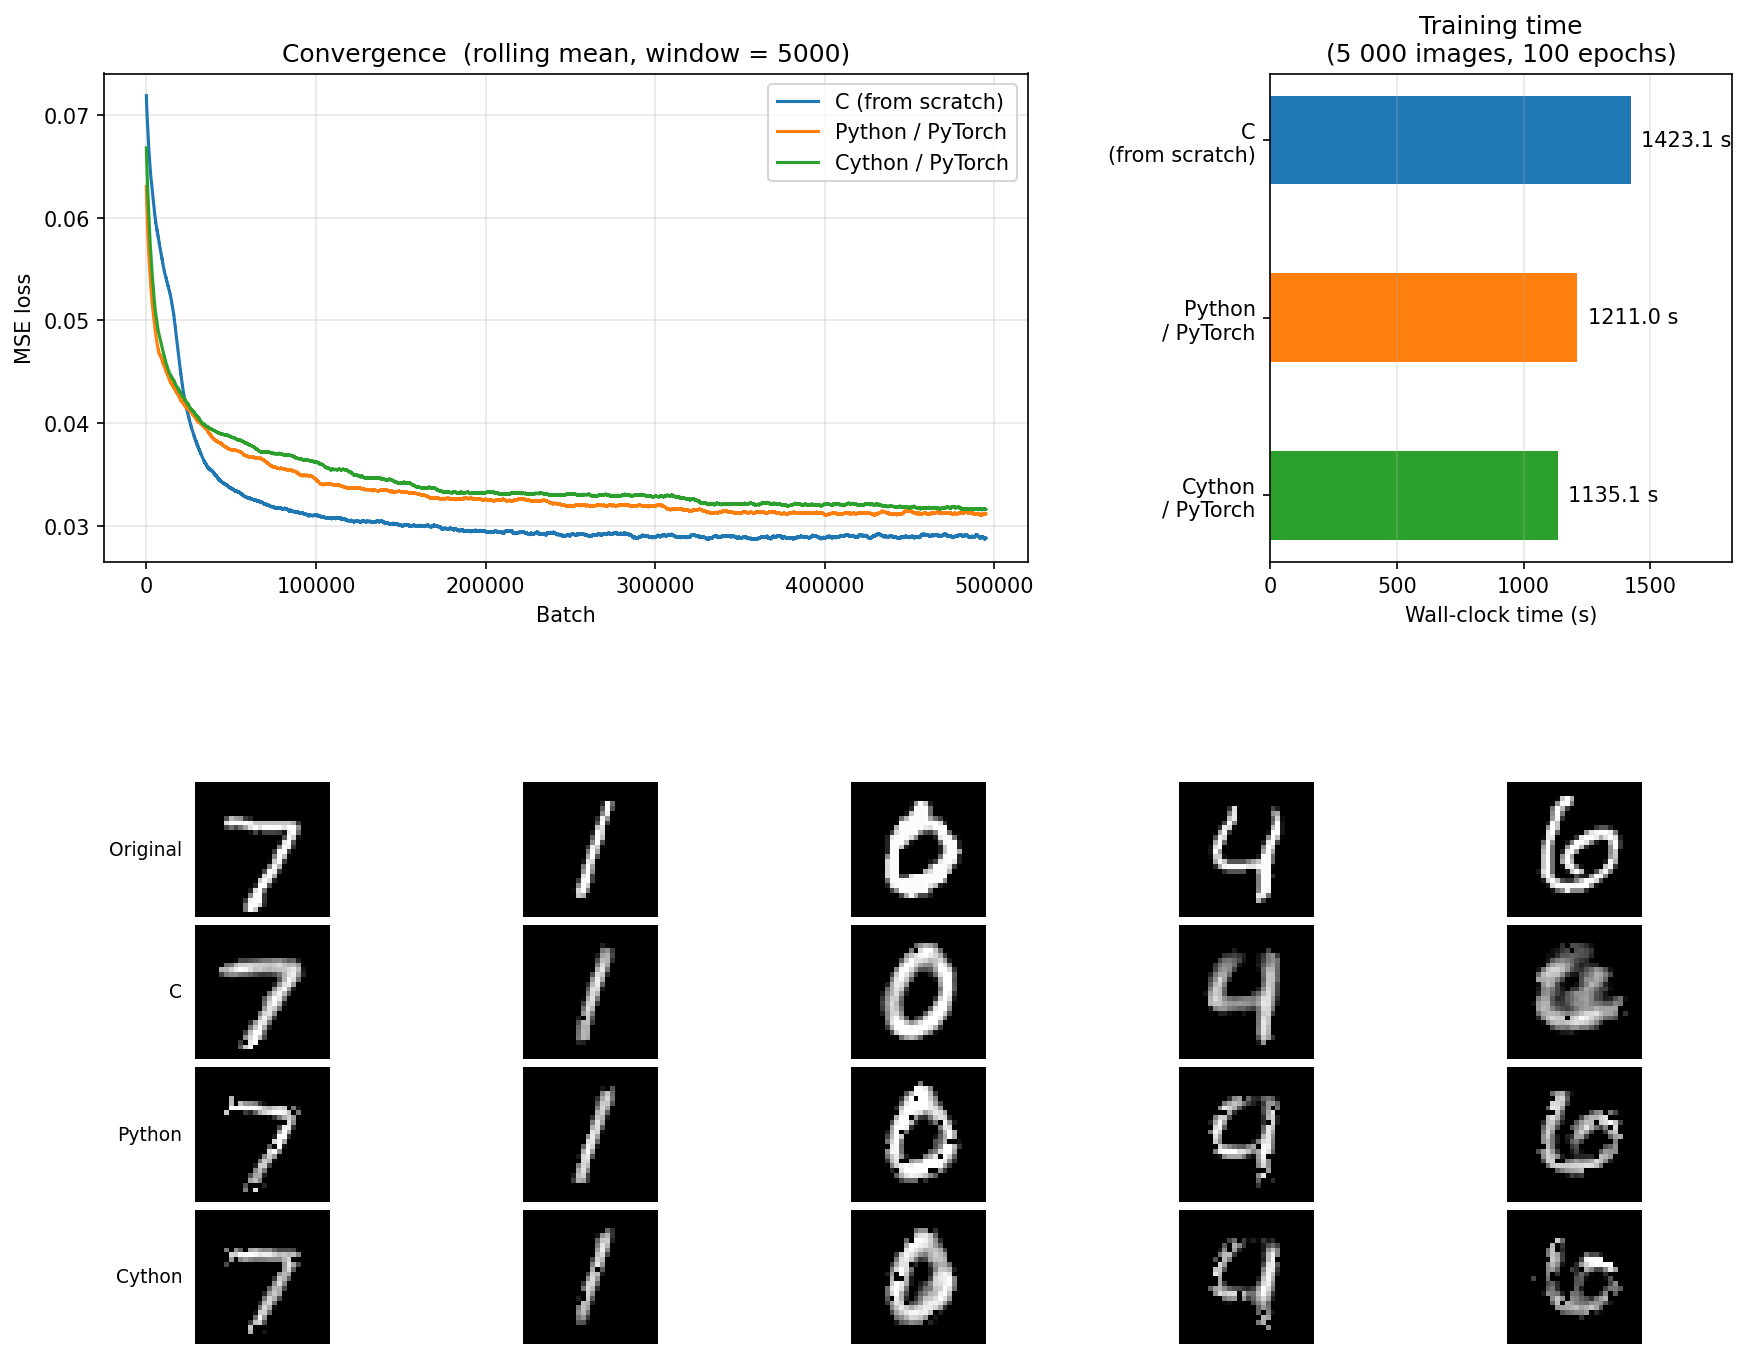
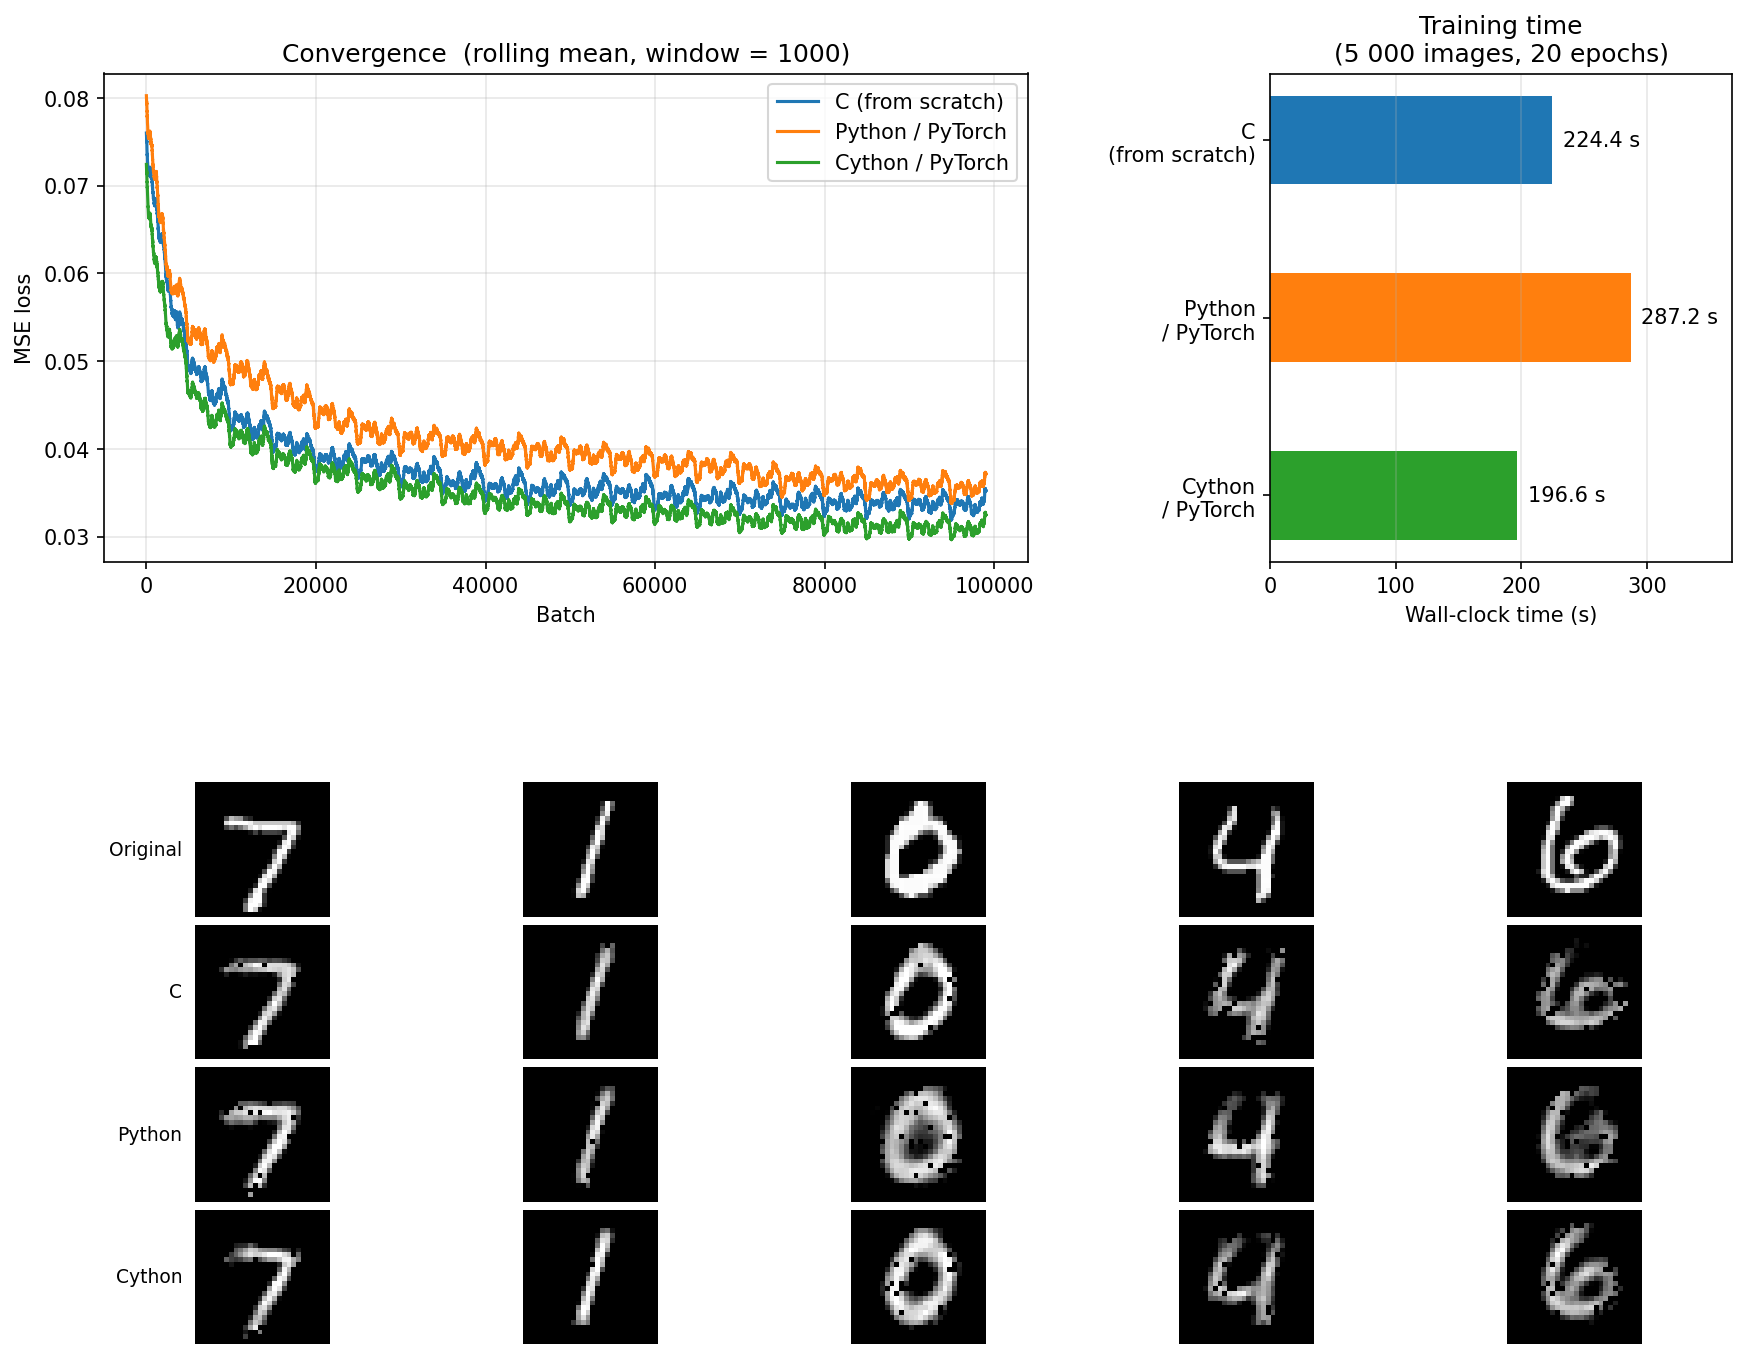
run 20 epochs

diff --git a/C/neural/nn.c b/C/neural/nn.c
@@ -28,8 +28,6 @@ NeuralNetwork* aeCreate(int latentDim, double lr, int batchSize) {
 	net->hiddenEnc2 = AE_HIDDEN2;
 	net->mu         = latentDim;
 
-	r4_nor_setup();  /* Initialise ziggurat RNG once before weight init */
-
 	Matrix* enc1  = matrix_create(AE_HIDDEN1,   AE_INPUT_DIM);
 	Matrix* enc1b = matrix_create(AE_HIDDEN1,   batchSize);
 	Matrix* enc2  = matrix_create(AE_HIDDEN2,   AE_HIDDEN1);
@@ -37,12 +35,13 @@ NeuralNetwork* aeCreate(int latentDim, double lr, int batchSize) {
 	Matrix* fc_mu  = matrix_create(latentDim,   AE_HIDDEN2);
 	Matrix* fc_mub = matrix_create(latentDim,   batchSize);
 
-	matrix_fill(enc1b,  0.0);
-	matrix_fill(enc2b,  0.0);
-	matrix_fill(fc_mub, 0.0);
-	matrix_init(enc1,  AE_INPUT_DIM, 1);
-	matrix_init(enc2,  AE_HIDDEN1,   1);
-	matrix_init(fc_mu, AE_HIDDEN2,   1);
+	/* Kaiming uniform init for weights and biases — matches PyTorch nn.Linear */
+	matrix_init(enc1,   AE_INPUT_DIM);
+	matrix_init(enc1b,  AE_INPUT_DIM);
+	matrix_init(enc2,   AE_HIDDEN1);
+	matrix_init(enc2b,  AE_HIDDEN1);
+	matrix_init(fc_mu,  AE_HIDDEN2);
+	matrix_init(fc_mub, AE_HIDDEN2);
 
 	net->hiddenWeightsEnc  = enc1;
 	net->hiddenWeightsEnc2 = enc2;
@@ -63,12 +62,12 @@ NeuralNetwork* aeCreate(int latentDim, double lr, int batchSize) {
 	Matrix* dec2b  = matrix_create(AE_HIDDEN1,   batchSize);
 	Matrix* out_wb = matrix_create(AE_INPUT_DIM, batchSize);
 
-	matrix_fill(dec1b,  0.0);
-	matrix_fill(dec2b,  0.0);
-	matrix_fill(out_wb, 0.0);
-	matrix_init(dec1,  latentDim,  1);
-	matrix_init(dec2,  AE_HIDDEN2, 1);
-	matrix_init(out_w, AE_HIDDEN1, 1);
+	matrix_init(dec1,   latentDim);
+	matrix_init(dec1b,  latentDim);
+	matrix_init(dec2,   AE_HIDDEN2);
+	matrix_init(dec2b,  AE_HIDDEN2);
+	matrix_init(out_w,  AE_HIDDEN1);
+	matrix_init(out_wb, AE_HIDDEN1);
 
 	net->hiddenWeightsDec  = dec1;
 	net->hiddenWeightsDec2 = dec2;
@@ -154,53 +153,53 @@ double network_train(NeuralNetwork* net, Matrix* X, int batch_size,
 	Matrix* primed = reluPrime(z5);
 	Matrix* dzn    = multiply(dA5, primed, 0);
 	matrix_free(primed);
-	ADAM_UPDATE(vds[0], sds[0], dot(dzn, transpose(A4, 0), 2), net->outputWeights);
+	ADAM_UPDATE(vds[0], sds[0], dot_NT(dzn, A4, 0), net->outputWeights);
 	ADAM_UPDATE(vds[6], sds[6], matrix_copy(dzn), net->outputBias);
 	assert(is_valid_double(net->outputWeights->entries[0][0]));
 
 	/* Decoder layer 2 */
-	Matrix* prev = dot(transpose(net->outputWeights, 0), dzn, 1);
+	Matrix* prev = dot_TN(net->outputWeights, dzn, 0);
 	primed = reluPrime(z4);
 	matrix_free(dzn);
 	dzn = multiply(prev, primed, 0);
 	matrix_free(prev); matrix_free(primed);
-	ADAM_UPDATE(vds[1], sds[1], dot(dzn, transpose(A3, 0), 2), net->hiddenWeightsDec2);
+	ADAM_UPDATE(vds[1], sds[1], dot_NT(dzn, A3, 0), net->hiddenWeightsDec2);
 	ADAM_UPDATE(vds[7], sds[7], matrix_copy(dzn), net->hiddenBiasDec2);
 
 	/* Decoder layer 1 */
-	prev   = dot(transpose(net->hiddenWeightsDec2, 0), dzn, 1);
+	prev   = dot_TN(net->hiddenWeightsDec2, dzn, 0);
 	primed = reluPrime(z3);
 	matrix_free(dzn);
 	dzn = multiply(prev, primed, 0);
 	matrix_free(prev); matrix_free(primed);
-	ADAM_UPDATE(vds[2], sds[2], dot(dzn, transpose(A2, 0), 2), net->hiddenWeightsDec);
+	ADAM_UPDATE(vds[2], sds[2], dot_NT(dzn, A2, 0), net->hiddenWeightsDec);
 	ADAM_UPDATE(vds[8], sds[8], matrix_copy(dzn), net->hiddenBiasDec);
 
 	/* Latent (mu) layer */
-	prev   = dot(transpose(net->hiddenWeightsDec, 0), dzn, 1);
+	prev   = dot_TN(net->hiddenWeightsDec, dzn, 0);
 	primed = reluPrime(z2);
 	matrix_free(dzn);
 	dzn = multiply(prev, primed, 0);
 	matrix_free(prev); matrix_free(primed);
-	ADAM_UPDATE(vds[3], sds[3], dot(dzn, transpose(A1, 0), 2), net->hiddenWeightsMu);
+	ADAM_UPDATE(vds[3], sds[3], dot_NT(dzn, A1, 0), net->hiddenWeightsMu);
 	ADAM_UPDATE(vds[9], sds[9], matrix_copy(dzn), net->hiddenBiasMu);
 
 	/* Encoder layer 2 */
-	prev   = dot(transpose(net->hiddenWeightsMu, 0), dzn, 1);
+	prev   = dot_TN(net->hiddenWeightsMu, dzn, 0);
 	primed = reluPrime(z1);
 	matrix_free(dzn);
 	dzn = multiply(prev, primed, 0);
 	matrix_free(prev); matrix_free(primed);
-	ADAM_UPDATE(vds[4], sds[4], dot(dzn, transpose(A0, 0), 2), net->hiddenWeightsEnc2);
+	ADAM_UPDATE(vds[4], sds[4], dot_NT(dzn, A0, 0), net->hiddenWeightsEnc2);
 	ADAM_UPDATE(vds[10], sds[10], matrix_copy(dzn), net->hiddenBiasEnc2);
 
 	/* Encoder layer 1 */
-	prev   = dot(transpose(net->hiddenWeightsEnc2, 0), dzn, 1);
+	prev   = dot_TN(net->hiddenWeightsEnc2, dzn, 0);
 	primed = reluPrime(z0);
 	matrix_free(dzn);
 	dzn = multiply(prev, primed, 0);
 	matrix_free(prev); matrix_free(primed);
-	ADAM_UPDATE(vds[5], sds[5], dot(dzn, transpose(X, 0), 2), net->hiddenWeightsEnc);
+	ADAM_UPDATE(vds[5], sds[5], dot_NT(dzn, X, 0), net->hiddenWeightsEnc);
 	ADAM_UPDATE(vds[11], sds[11], matrix_copy(dzn), net->hiddenBiasEnc);
 
 	/* ── Free intermediate activations ─────────────────────────────── */

diff --git a/C/matrix/ops.c b/C/matrix/ops.c
@@ -152,6 +152,42 @@ Matrix* dot(Matrix *m1, Matrix *m2, unsigned short int comp) {
 	return m;
 }
 
+Matrix* dot_NT(Matrix *m1, Matrix *m2, unsigned short comp) {
+	/* result = m1 @ m2^T — uses CblasTrans to avoid allocating a transpose. */
+	if (m1->cols != m2->cols) {
+		printf("Dimension mismatch dot_NT: %dx%d vs %dx%d\n",
+		       m1->rows, m1->cols, m2->rows, m2->cols); exit(1);
+	}
+	Matrix *m = matrix_create(m1->rows, m2->rows);
+	cblas_dgemm(CblasRowMajor, CblasNoTrans, CblasTrans,
+	            m1->rows, m2->rows, m1->cols,
+	            1.0, m1->data, m1->cols,
+	            m2->data, m2->cols,
+	            0.0, m->data, m2->rows);
+	if (comp == 1)      matrix_free(m1);
+	else if (comp == 2) matrix_free(m2);
+	else if (comp == 3) { matrix_free(m1); matrix_free(m2); }
+	return m;
+}
+
+Matrix* dot_TN(Matrix *m1, Matrix *m2, unsigned short comp) {
+	/* result = m1^T @ m2 — uses CblasTrans to avoid allocating a transpose. */
+	if (m1->rows != m2->rows) {
+		printf("Dimension mismatch dot_TN: %dx%d vs %dx%d\n",
+		       m1->rows, m1->cols, m2->rows, m2->cols); exit(1);
+	}
+	Matrix *m = matrix_create(m1->cols, m2->cols);
+	cblas_dgemm(CblasRowMajor, CblasTrans, CblasNoTrans,
+	            m1->cols, m2->cols, m1->rows,
+	            1.0, m1->data, m1->cols,
+	            m2->data, m2->cols,
+	            0.0, m->data, m2->cols);
+	if (comp == 1)      matrix_free(m1);
+	else if (comp == 2) matrix_free(m2);
+	else if (comp == 3) { matrix_free(m1); matrix_free(m2); }
+	return m;
+}
+
 Matrix* scale(double n, Matrix* m, unsigned short int comp) {
 	if (comp == 1) {
 		size_t sz = (size_t)m->rows * m->cols;

diff --git a/C/matrix/matrix.c b/C/matrix/matrix.c
@@ -86,18 +86,16 @@ Matrix* matrix_load(char* file_string) {
 }
 
 double uniform_distribution(double low, double high) {
-	double difference = high - low; // The difference between the two
-	int scale = 10000;
-	int scaled_difference = (int)(difference * scale);
-	return low + (1.0 * (rand() % scaled_difference) / scale);
+	return low + (high - low) * (rand() / (double)RAND_MAX);
 }
 
-void matrix_init(Matrix* m, double n, int k) {
-	/* He initialisation: N(0,1) * sqrt(2 / fan_in)
-	 * Caller must have invoked r4_nor_setup() first. */
+void matrix_init(Matrix* m, double fan_in) {
+	/* Kaiming uniform — matches PyTorch nn.Linear default:
+	 *   kaiming_uniform_(a=sqrt(5))  =>  Uniform(-1/sqrt(fan_in), 1/sqrt(fan_in)) */
+	double bound = 1.0 / sqrt(fan_in);
 	for (int i = 0; i < m->rows; i++) {
 		for (int j = 0; j < m->cols; j++) {
-			m->entries[i][j] = r4_nor_value() * sqrt((k + 1) / n);
+			m->entries[i][j] = uniform_distribution(-bound, bound);
 		}
 	}
 }

diff --git a/C/matrix/ops.h b/C/matrix/ops.h
@@ -7,6 +7,10 @@ Matrix* divide(Matrix *m1, Matrix *m2, unsigned short int comp);
 Matrix* add(Matrix* m1, Matrix* m2, unsigned short int comp);
 Matrix* subtract(Matrix* m1, Matrix* m2, unsigned short int comp);
 Matrix* dot(Matrix* m1, Matrix* m2, unsigned short int comp);
+/* dot_NT: result = m1 @ m2^T  (avoids allocating a transpose matrix) */
+Matrix* dot_NT(Matrix* m1, Matrix* m2, unsigned short int comp);
+/* dot_TN: result = m1^T @ m2  (avoids allocating a transpose matrix) */
+Matrix* dot_TN(Matrix* m1, Matrix* m2, unsigned short int comp);
 Matrix* apply(double (*func)(double), Matrix* m, unsigned short int comp);
 Matrix* scale(double n, Matrix* m, unsigned short int comp);
 Matrix* addScalar(double n, Matrix* m, unsigned short int comp);

diff --git a/C/matrix/matrix.h b/C/matrix/matrix.h
@@ -14,7 +14,7 @@ void matrix_print(Matrix *m);
 Matrix* matrix_copy(Matrix *m);
 void matrix_save(Matrix* m, char* file_string);
 Matrix* matrix_load(char* file_string);
-void matrix_init(Matrix* m, double n, int k);
+void matrix_init(Matrix* m, double fan_in);
 int matrix_argmax(Matrix* m);
 Matrix* matrix_flatten(Matrix* m, int axis);
 Matrix* matrix_unflatten(Matrix* m);